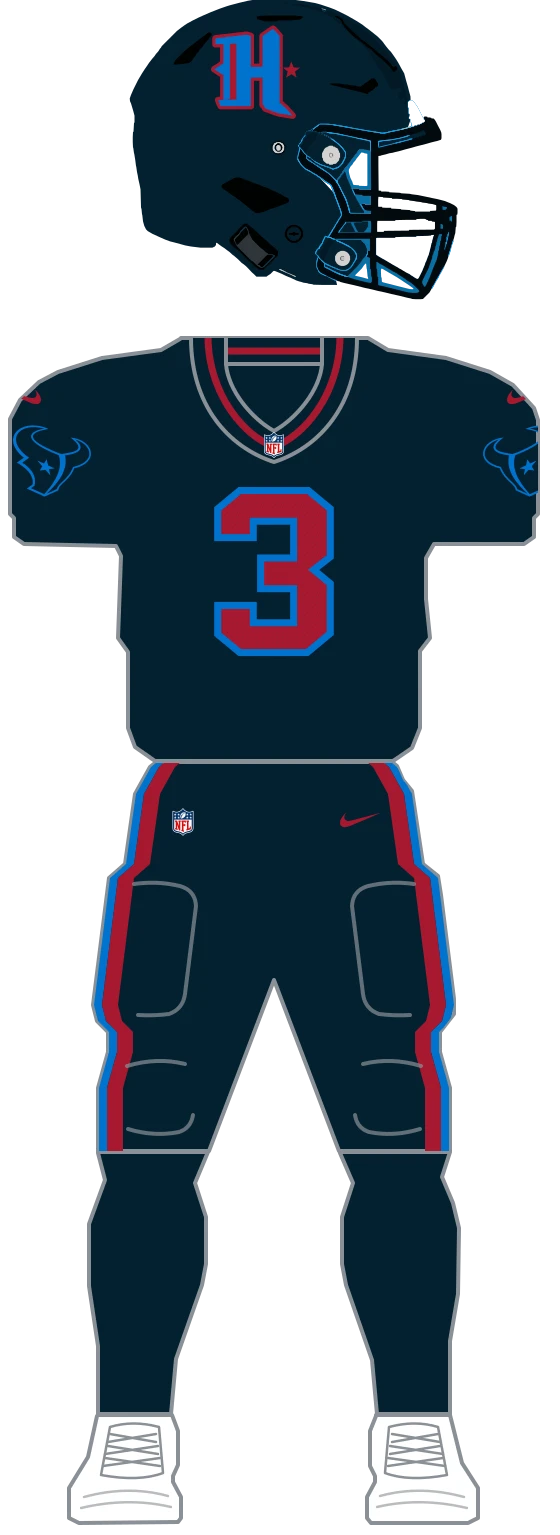
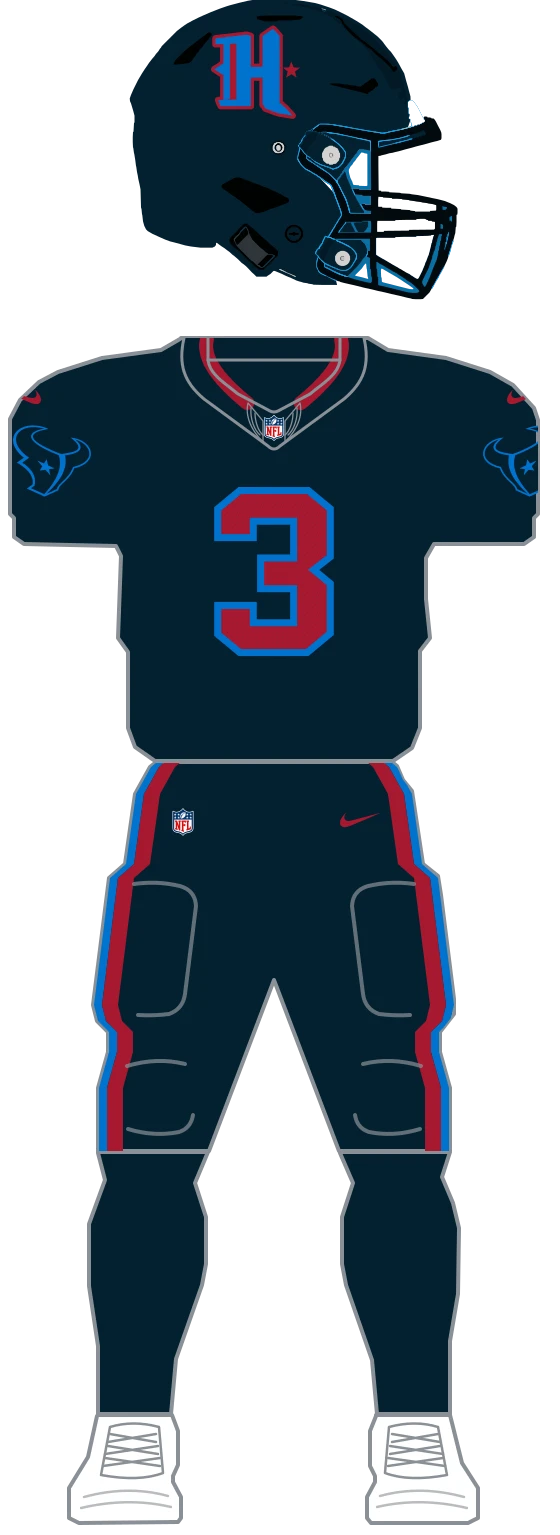
fix(uniforms): use the shared inset-V collar on the H-Town jersey (DEP-343)

Changed region(s): [[0.3036, 0.2143, 0.6679, 0.3062]]

diff --git a/web/lib/uniforms/teams/texans/jerseys/h-town.ts b/web/lib/uniforms/teams/texans/jerseys/h-town.ts
@@ -5,11 +5,12 @@ import { TEXANS_LOGO } from '../marks/logo';
 export const TEXANS_JERSEY_H_TOWN: CompleteJerseySpec = {
   body: 'navy',
   collar: {
-    style: 'narrow-v',
+    style: 'inset-v',
     color: 'navy',
-    trim: 'red',
-    trimEdge: 'none',
+    trim: 'none',
     inside: 'body',
+    lining: 'red',
+    backBar: 'none',
     outline: true,
   },
   shoulderPanel: 'none',
